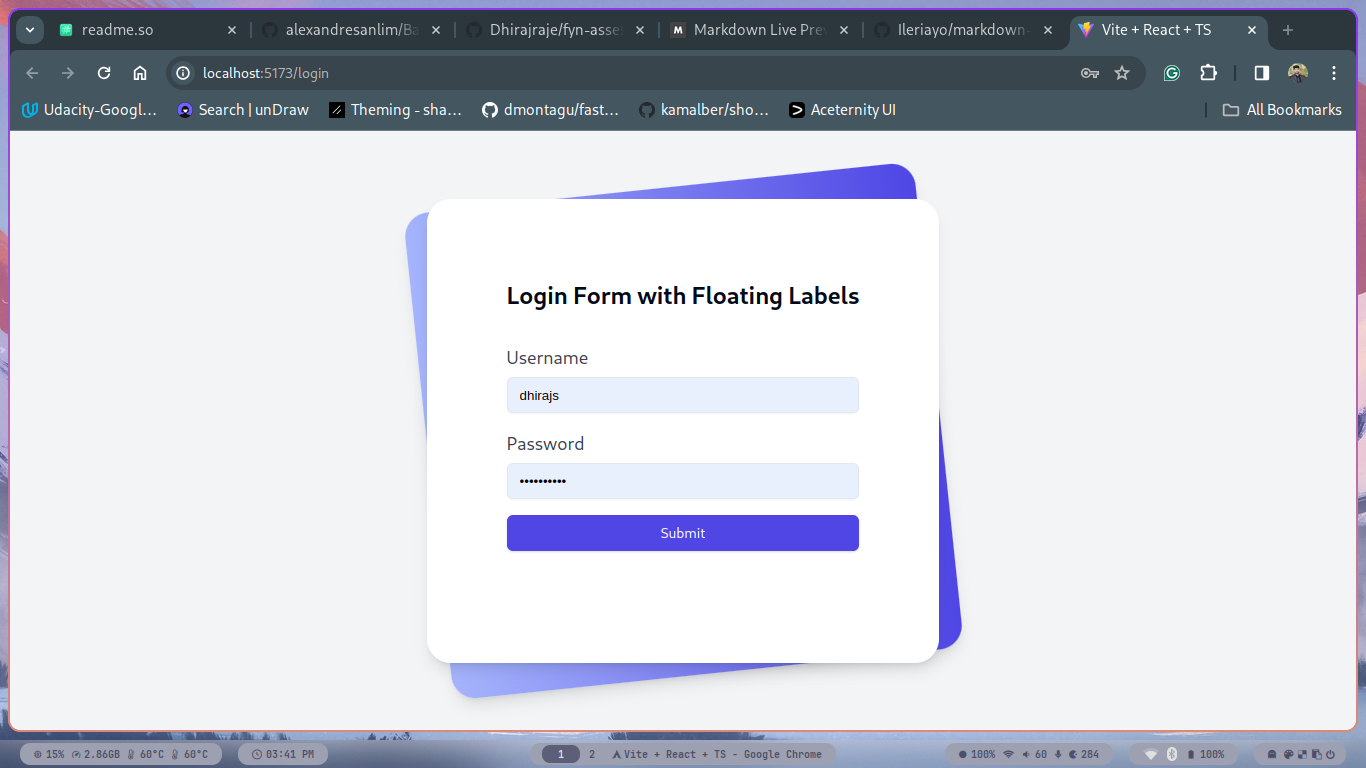
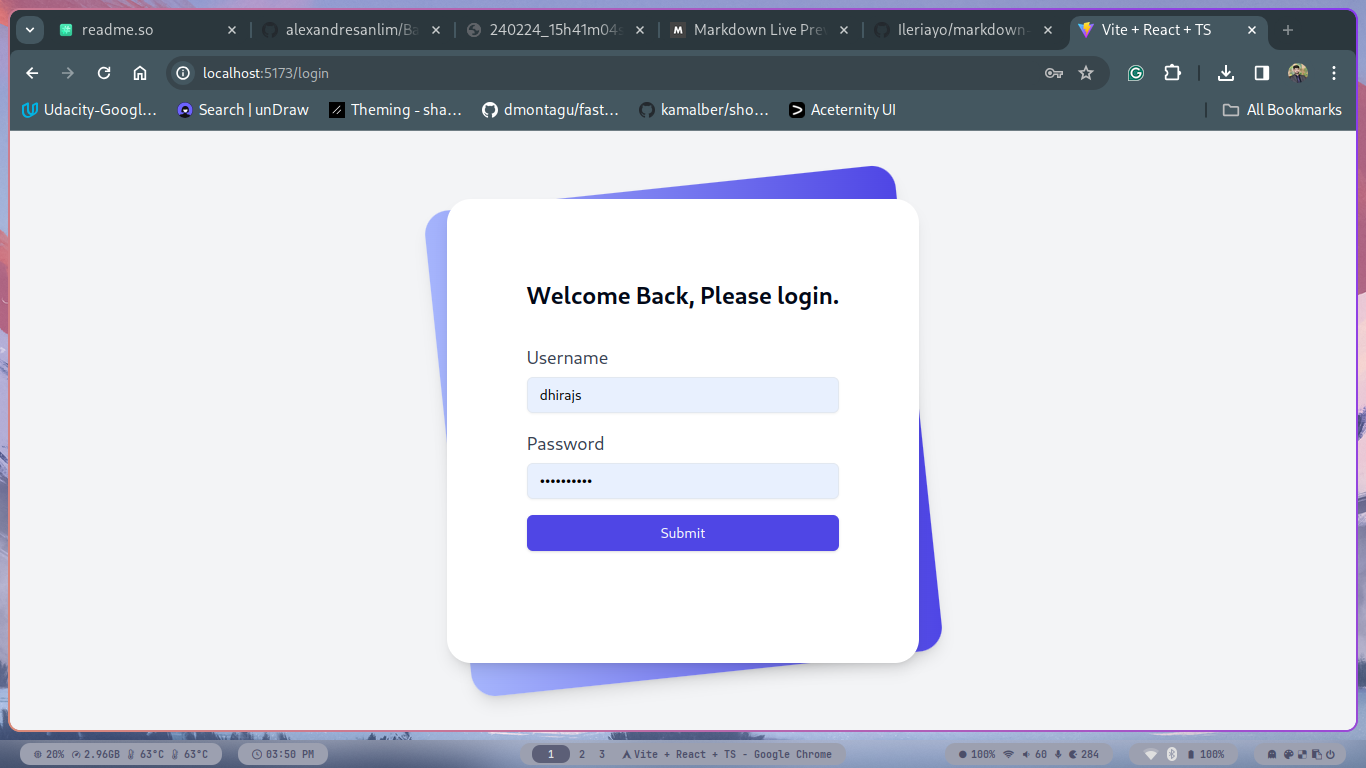
readme and typo fixes.

diff --git a/assessment-fe/src/pages/login.tsx b/assessment-fe/src/pages/login.tsx
@@ -26,7 +26,7 @@ export default function Login() {
 			<div className="relative px-4 py-10 bg-white shadow-lg sm:rounded-3xl sm:p-20">
 				<div className="max-w-md mx-auto">
 					<div>
-						<h1 className="text-2xl font-semibold">Login Form with Floating Labels</h1>
+						<h1 className="text-2xl font-semibold">Welcome Back, Please login.</h1>
 					</div>
 					<div className="divide-y divide-gray-200">
 						<div className="py-8 text-base leading-6 space-y-4 text-gray-700 sm:text-lg sm:leading-7">

diff --git a/README.md b/README.md
@@ -1,0 +1,112 @@
+
+# FYN Assessment
+
+A vehicle usage cost pricing calculator.
+
+
+
+
+## Technologies used
+
+
+
+![Django](https://img.shields.io/badge/django-%23092E20.svg?style=for-the-badge&logo=django&logoColor=white) ![DjangoREST](https://img.shields.io/badge/DJANGO-REST-ff1709?style=for-the-badge&logo=django&logoColor=white&color=ff1709&labelColor=gray) ![React](https://img.shields.io/badge/react-%2320232a.svg?style=for-the-badge&logo=react&logoColor=%2361DAFB) ![Vite](https://img.shields.io/badge/vite-%23646CFF.svg?style=for-the-badge&logo=vite&logoColor=white) ![TailwindCSS](https://img.shields.io/badge/tailwindcss-%2338B2AC.svg?style=for-the-badge&logo=tailwind-css&logoColor=white)
+![JWT](https://img.shields.io/badge/JWT-black?style=for-the-badge&logo=JSON%20web%20tokens)
+
+
+Find more on : [dhiraj.homonovus.in](https://dhiraj.homonovus.in/)
+## Initialization
+
+Clone project from git
+```bash
+  git clone https://github.com/Dhirajraje/fyn-assessment.git
+  cd fyn-assessment
+```
+
+
+
+#### Setting up the backend
+
+I am using `Arch linux` with `linux kernel 6.6` please update the commands as per your host machine. 
+
+Since this is a django project, we recommend to create virtual env.
+
+```bash
+python3 -m virtualenv .venv
+source ./.venv/bin/activate
+```
+
+
+Install required dependencies using following command
+
+```bash
+pip install -r requirements
+```
+The user (username:`dhirajs`,password:`loremipsum`) is already configured in the tool.
+
+(Optional) To create the new user run follwoing command. username should be at least 4 chars long and password should be 8 chars long.
+
+```bash
+python3 manage.py createsuperuser
+```
+
+Run the backend service using following command
+
+```bash
+python3 manage.py runserver 8000
+```
+APIs can be viewed at the url: http://localhost:8000/api/schema/swagger-ui/
+
+
+#### Setting up the frontend
+
+Frontend is written in react and it is located in directory `assessment-fe`
+
+Go to the frontend directory using,
+
+```bash
+cd assessment-fe
+```
+
+Install required dependencies using 
+
+```bash
+npm i
+```
+
+Run the frontend service using
+
+```bash
+npm run dev -- --open
+```
+
+Frontend application can be viewed at url: http://localhost:5173/
+
+
+## Screenshots
+
+![App Screenshot](https://raw.githubusercontent.com/Dhirajraje/fyn-assessment/master/screenshots/240224_15h41m04s_screenshot.png)
+
+
+
+![App Screenshot](https://raw.githubusercontent.com/Dhirajraje/fyn-assessment/master/screenshots/240224_15h44m15s_screenshot.png)
+
+
+![App Screenshot](https://raw.githubusercontent.com/Dhirajraje/fyn-assessment/master/screenshots/240224_15h44m29s_screenshot.png)
+
+
+
+![App Screenshot](https://raw.githubusercontent.com/Dhirajraje/fyn-assessment/master/screenshots/240224_15h44m47s_screenshot.png)
+
+
+
+
+![App Screenshot](https://raw.githubusercontent.com/Dhirajraje/fyn-assessment/master/screenshots/240224_15h45m03s_screenshot.png)
+
+
+![App Screenshot](https://raw.githubusercontent.com/Dhirajraje/fyn-assessment/master/screenshots/240224_15h45m27s_screenshot.png)
+
+
+
+
+![App Screenshot](https://raw.githubusercontent.com/Dhirajraje/fyn-assessment/master/screenshots/240224_15h43m36s_screenshot.png)
